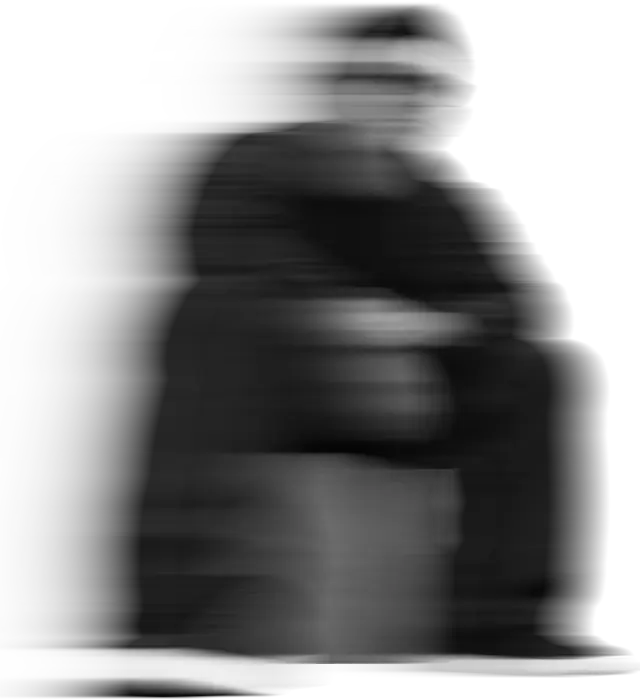
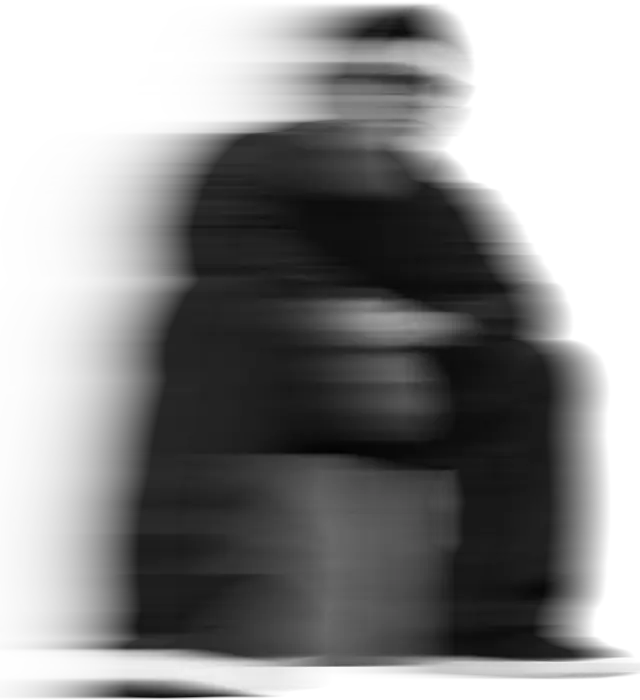
Hero portrait: shorter sides and faint stubble, less grey
Re-edited the portrait so Charlie reads closer to 37: tight fade on the
sides and faint short stubble with much less grey. Pose, hands and ring
unchanged. Rebuilt the cutout and motion trail.

Claude-Session: https://claude.ai/code/session_01W5NmLrmCfpinZRZs12n3aL

Changed region(s): [[0.125, 0.93, 0.9688, 1.0], [0.1875, 0.9, 0.25, 0.93]]

diff --git a/index.html b/index.html
@@ -92,7 +92,7 @@
   .ghost { position: absolute; z-index: 3; bottom: 0; left: 50%; height: 72%; width: auto; max-width: none; transform: translateX(-74%); opacity: .45; pointer-events: none; }
 
   /* Figure + Meta Ray-Ban capture LED */
-  .figure { position: absolute; z-index: 4; left: 50%; bottom: 0; height: 88%; aspect-ratio: 995 / 1400; transform: translateX(-50%); pointer-events: none; }
+  .figure { position: absolute; z-index: 4; left: 50%; bottom: 0; height: 88%; aspect-ratio: 999 / 1400; transform: translateX(-50%); pointer-events: none; }
   .figure img { width: 100%; height: 100%; max-width: none; filter: drop-shadow(0 22px 26px rgba(0,0,0,.18)); }
   .led { position: absolute; left: 49.2%; top: 8.8%; width: 44px; height: 44px; margin: -22px 0 0 -22px; border: 0; padding: 0; background: none; cursor: pointer; pointer-events: auto; border-radius: 50%; }
   .led::before { content: ""; position: absolute; left: 50%; top: 50%; width: 6px; height: 6px; margin: -3px 0 0 -3px; border-radius: 50%; background: #fff; box-shadow: 0 0 6px 2px #fff, 0 0 16px 6px rgba(255,255,255,.75); animation: blink 1.6s steps(1, end) infinite; }
